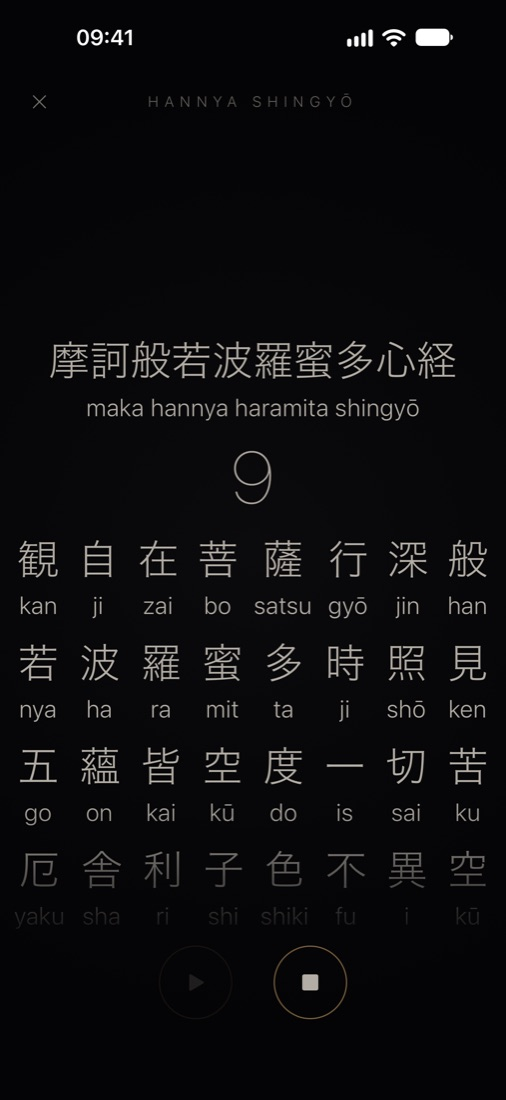
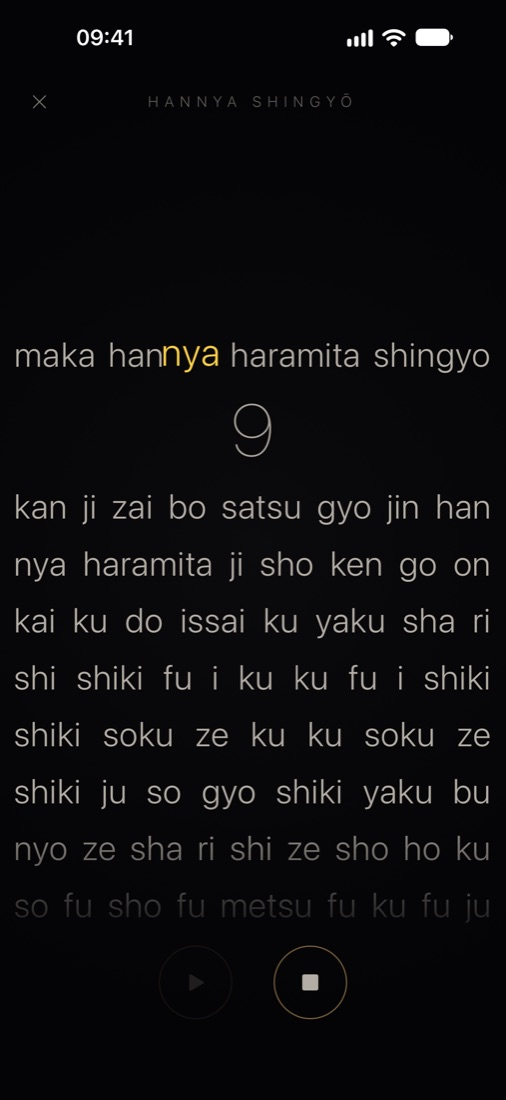
Mokugyo 1.1: romanised sutra, new screenshots, App Store link

Changed region(s): [[0.0296, 0.3091, 0.9783, 0.8345], [0.3557, 0.8036, 0.3854, 0.8345], [0.3261, 0.3709, 0.3557, 0.4018]]

diff --git a/mokugyo/index.html b/mokugyo/index.html
@@ -1,13 +1,15 @@
 <!doctype html><html lang=en-US><head><meta charset=utf-8><meta name=viewport content="width=device-width,initial-scale=1"><title>Mokugyo · Sergi Barroso</title><meta name=description content="Mokugyo is a meditation app for iPhone and Apple Watch: a timer for silent sitting, and the Heart Sutra chanted in time with a wooden fish."><meta name=author content="Sergi Barroso"><link rel=canonical href=https://sergibarroso.xyz/mokugyo/><meta property="og:title" content="Mokugyo · Sergi Barroso"><meta property="og:description" content="Mokugyo is a meditation app for iPhone and Apple Watch: a timer for silent sitting, and the Heart Sutra chanted in time with a wooden fish."><meta property="og:type" content="website"><meta property="og:url" content="https://sergibarroso.xyz/mokugyo/"><meta property="og:image" content="https://sergibarroso.xyz/mokugyo/icon.png"><meta name=color-scheme content="dark"><meta name=theme-color content="#071528"><link rel=icon type=image/png sizes=32x32 href=/favicon-32x32.png><link rel=icon type=image/png sizes=16x16 href=/favicon-16x16.png><link rel=apple-touch-icon href=/apple-touch-icon.png><link rel=stylesheet href=/css/site.min.a65817924cb3ef9ff227b98c6b7a270d3cf2d280851ff0138858dd5756aad7a1.css integrity="sha256-plgXkkyz75/yJ7mMa3onDTzy0oCFH/ATiFjdV1aq16E="></head><body data-accent=warm><canvas class=tiles aria-hidden=true></canvas><header class=site-header><nav aria-label=Main><a href=/>About</a>
-<a href=/projects/ aria-current=page>Projects</a></nav></header><main class=page><section class=project-hero><img class=project-icon src=/mokugyo/icon.png alt width=112 height=112><div><h1>Mokugyo</h1><p class=tagline>Zen timer & Heart Sutra chant for iPhone and Apple Watch</p><p class=status>Coming soon to the App Store.</p></div></section><div class=prose><p>Mokugyo is a meditation app rooted in Zen practice and open to any style. It has two
+<a href=/projects/ aria-current=page>Projects</a></nav></header><main class=page><section class=project-hero><img class=project-icon src=/mokugyo/icon.png alt width=112 height=112><div><h1>Mokugyo</h1><p class=tagline>Zen timer & Heart Sutra chant for iPhone and Apple Watch</p><a class=button href=https://apps.apple.com/app/id6820908666>Download on the App Store</a></div></section><div class=prose><p>Mokugyo is a meditation app rooted in Zen practice and open to any style. It has two
 parts: a timer for silent sitting, and the Heart Sutra, chanted in time with a <em>mokugyo</em> —
 the wooden fish that keeps the beat in Zen temples.</p><h2 id=sit-in-silence>Sit in silence</h2><p>Tap Begin and a singing bowl opens your sitting. A short countdown helps you settle, then
 your chosen time passes in silence: 5 to 60 minutes on iPhone, 5 to 45 on Apple Watch.
 When it ends, the bowl sounds again and rings out fully. The bowl was measured from a
 recording of a real singing bowl and is created as it sounds — there are no audio files.</p><h2 id=chant-the-heart-sutra>Chant the Heart Sutra</h2><p>Tap the heart to chant the Hannya Shingyō (般若心経), the Heart Sutra as chanted in
-Japanese Zen temples. Each character is shown in kanji with its reading beneath, and
-lights up in turn as it is chanted. A twelve-second countdown gives you time to sing the
-opening line, <em>maka hannya haramita shingyō</em>, as the temple bell sounds and fades; then
-the mokugyo strikes on every character, guiding your voice to the closing mantra. Choose
-the pace and the text size that suit you in Preferences.</p><h2 id=on-your-wrist-and-in-health>On your wrist, and in Health</h2><p>The Apple Watch app does both, and keeps going with your wrist down. With your
-permission, each sitting is saved to the Health app as Mindful Minutes.</p><h2 id=private-by-design>Private by design</h2><p>No accounts, no ads, no tracking. Nothing you do in Mokugyo leaves your device.</p></div><section class=section><h2 class=section-title>Screenshots</h2><div class=screenshots><figure class=phone><img src=/mokugyo/iphone-1-start.jpg alt="The start screen: a Begin button inside slow rings, set to ten minutes." loading=lazy></figure><figure class=phone><img src=/mokugyo/iphone-2-sutra-opening-line.jpg alt="The Heart Sutra counting down while its opening line is sung." loading=lazy></figure><figure class=phone><img src=/mokugyo/iphone-3-sutra-chanting.jpg alt="The Heart Sutra mid-chant, the current character lit in gold." loading=lazy></figure><figure class=phone><img src=/mokugyo/iphone-4-sitting.jpg alt="A sitting under way, with the time left and a thin progress ring." loading=lazy></figure><figure class=watch><img src=/mokugyo/watch-sutra-chanting.jpg alt="The Heart Sutra on Apple Watch, two rows at a time." loading=lazy></figure></div></section><section class=section><h2 class=section-title>More</h2><ul class=page-links><li><a href=/mokugyo/privacy.html>Mokugyo Privacy Policy</a></li><li><a href=/mokugyo/support.html>Mokugyo Support</a></li></ul></section></main><footer class=site-footer><span>© 2026 Sergi Barroso</span></footer><script src=/js/tiles.min.47a51d046621f431cd7507b52ce48270f5f08596bd3d137ca9efb2c301605e96.js integrity="sha256-R6UdBGYh9DHNdQe1LOSCcPXwhZa9PRN8qe+ywwFgXpY=" defer></script></body></html>
+Japanese temples. It is written in romanised Japanese, word by word as in a chant book,
+and each syllable lights up in turn as it is chanted, like karaoke. A twelve-second
+countdown lights the opening line, <em>maka hannya haramita shingyo</em>, for you to sing as the
+temple bell sounds and fades; then the mokugyo keeps the beat, timed from a real temple
+chant — quick syllables share one strike, the pace quickens gently as you go, and the
+closing <em>han nya shin gyo</em> is drawn out. Choose the pace and the text size that suit you
+in Preferences.</p><h2 id=on-your-wrist-and-in-health>On your wrist, and in Health</h2><p>The Apple Watch app does both, and keeps going with your wrist down. With your
+permission, each sitting is saved to the Health app as Mindful Minutes.</p><h2 id=private-by-design>Private by design</h2><p>No accounts, no ads, no tracking. Nothing you do in Mokugyo leaves your device.</p></div><section class=section><h2 class=section-title>Screenshots</h2><div class=screenshots><figure class=phone><img src=/mokugyo/iphone-1-start.jpg alt="The start screen: a Begin button inside slow rings, set to ten minutes." loading=lazy></figure><figure class=phone><img src=/mokugyo/iphone-2-sutra-opening-line.jpg alt="The Heart Sutra counting down, its opening line lit syllable by syllable as it is sung." loading=lazy></figure><figure class=phone><img src=/mokugyo/iphone-3-sutra-chanting.jpg alt="The Heart Sutra mid-chant, the syllable being chanted lit in gold." loading=lazy></figure><figure class=phone><img src=/mokugyo/iphone-4-sitting.jpg alt="A sitting under way, with the time left and a thin progress ring." loading=lazy></figure><figure class=watch><img src=/mokugyo/watch-sutra-chanting.jpg alt="The Heart Sutra on Apple Watch, a few rows at a time." loading=lazy></figure></div></section><section class=section><h2 class=section-title>More</h2><ul class=page-links><li><a href=/mokugyo/privacy.html>Mokugyo Privacy Policy</a></li><li><a href=/mokugyo/support.html>Mokugyo Support</a></li></ul></section></main><footer class=site-footer><span>© 2026 Sergi Barroso</span></footer><script src=/js/tiles.min.47a51d046621f431cd7507b52ce48270f5f08596bd3d137ca9efb2c301605e96.js integrity="sha256-R6UdBGYh9DHNdQe1LOSCcPXwhZa9PRN8qe+ywwFgXpY=" defer></script></body></html>

diff --git a/index.html b/index.html
@@ -1,4 +1,4 @@
-<!doctype html><html lang=en-US><head><meta name=generator content="Hugo 0.167.0"><meta charset=utf-8><meta name=viewport content="width=device-width,initial-scale=1"><title>Sergi Barroso</title><meta name=description content="Hi, I&rsquo;m Sergi Barroso, a computer engineer born in Barcelona during the &rsquo;80s.
+<!doctype html><html lang=en-US><head><meta charset=utf-8><meta name=viewport content="width=device-width,initial-scale=1"><title>Sergi Barroso</title><meta name=description content="Hi, I&rsquo;m Sergi Barroso, a computer engineer born in Barcelona during the &rsquo;80s.
 As a kid, I dreamt of becoming an architect, and I spent most of my childhood thinking and designing houses …"><meta name=author content="Sergi Barroso"><link rel=canonical href=https://sergibarroso.xyz/><meta property="og:title" content="Sergi Barroso"><meta property="og:description" content="Hi, I&rsquo;m Sergi Barroso, a computer engineer born in Barcelona during the &rsquo;80s.
-As a kid, I dreamt of becoming an architect, and I spent most of my childhood thinking and designing houses …"><meta property="og:type" content="website"><meta property="og:url" content="https://sergibarroso.xyz/"><meta property="og:image" content="https://sergibarroso.xyz/me.jpg"><meta name=color-scheme content="dark"><meta name=theme-color content="#071528"><link rel=icon type=image/png sizes=32x32 href=/favicon-32x32.png><link rel=icon type=image/png sizes=16x16 href=/favicon-16x16.png><link rel=apple-touch-icon href=/apple-touch-icon.png><link rel=stylesheet href=/css/site.min.a65817924cb3ef9ff227b98c6b7a270d3cf2d280851ff0138858dd5756aad7a1.css integrity="sha256-plgXkkyz75/yJ7mMa3onDTzy0oCFH/ATiFjdV1aq16E="></head><body><canvas class=tiles aria-hidden=true></canvas><header class=site-header><nav aria-label=Main><a href=/ aria-current=page>About</a>
+As a kid, I dreamt of becoming an architect, and I spent most of my childhood thinking and designing houses …"><meta property="og:type" content="website"><meta property="og:url" content="https://sergibarroso.xyz/"><meta property="og:image" content="https://sergibarroso.xyz/me.jpg"><meta name=color-scheme content="dark"><meta name=theme-color content="#071528"><link rel=icon type=image/png sizes=32x32 href=/favicon-32x32.png><link rel=icon type=image/png sizes=16x16 href=/favicon-16x16.png><link rel=apple-touch-icon href=/apple-touch-icon.png><link rel=stylesheet href=/css/site.min.a65817924cb3ef9ff227b98c6b7a270d3cf2d280851ff0138858dd5756aad7a1.css integrity="sha256-plgXkkyz75/yJ7mMa3onDTzy0oCFH/ATiFjdV1aq16E="><meta name=generator content="Hugo 0.168.0"></head><body><canvas class=tiles aria-hidden=true></canvas><header class=site-header><nav aria-label=Main><a href=/ aria-current=page>About</a>
 <a href=/projects/>Projects</a></nav></header><main class=page><section class=intro><img class=portrait src=/me.jpg alt="Sergi Barroso" width=168 height=168><div><h1>Sergi Barroso</h1><p class=tagline>DevOps and software engineer</p></div></section><div class=prose><p>Hi, I&rsquo;m Sergi Barroso, a computer engineer born in Barcelona during the &rsquo;80s.</p><p>As a kid, I dreamt of becoming an architect, and I spent most of my childhood thinking and designing houses using <a href=https://www.lego.com>Lego</a> until my dad introduced me to computers and the AMOs Basic.</p><p>I&rsquo;m passionate about computer systems, DevOps culture, programming languages (C, Go, Rust, and others but *Java), sports (mainly <a href=https://en.wikipedia.org/wiki/Calisthenics>calisthenics</a>, cycling and hiking), photography, drawing, board|card|video games, and 日本 (Japan).</p><p>I live in Munich and am a staff DevOps engineer at <a href=https://zalion.ai>Zalion</a>. I&rsquo;m always open to hearing about exciting projects to collaborate with, so please, drop me a message on any of the links below.</p><p>Thanks for reading.</p><p>&ndash; Sergi</p></div><ul class=links><li><a href=mailto:sergibarroso@gmail.com>Email</a></li><li><a href=https://www.linkedin.com/in/sergibarroso/ rel="me noopener" target=_blank>LinkedIn</a></li><li><a href=https://github.com/sergibarroso rel="me noopener" target=_blank>GitHub</a></li><li><a href=https://keys.openpgp.org/vks/v1/by-fingerprint/8B3798EFB5F520EFDA9537C2DED4819F660B2E35 rel="me noopener" target=_blank>OpenPGP key</a></li></ul></main><footer class=site-footer><span>© 2026 Sergi Barroso</span></footer><script src=/js/tiles.min.47a51d046621f431cd7507b52ce48270f5f08596bd3d137ca9efb2c301605e96.js integrity="sha256-R6UdBGYh9DHNdQe1LOSCcPXwhZa9PRN8qe+ywwFgXpY=" defer></script></body></html>

diff --git a/projects/index.html b/projects/index.html
@@ -1,4 +1,4 @@
 <!doctype html><html lang=en-US><head><meta charset=utf-8><meta name=viewport content="width=device-width,initial-scale=1"><title>Projects · Sergi Barroso</title><meta name=description content="Things Sergi Barroso has made."><meta name=author content="Sergi Barroso"><link rel=canonical href=https://sergibarroso.xyz/projects/><meta property="og:title" content="Projects · Sergi Barroso"><meta property="og:description" content="Things Sergi Barroso has made."><meta property="og:type" content="website"><meta property="og:url" content="https://sergibarroso.xyz/projects/"><meta property="og:image" content="https://sergibarroso.xyz/me.jpg"><meta name=color-scheme content="dark"><meta name=theme-color content="#071528"><link rel=icon type=image/png sizes=32x32 href=/favicon-32x32.png><link rel=icon type=image/png sizes=16x16 href=/favicon-16x16.png><link rel=apple-touch-icon href=/apple-touch-icon.png><link rel=stylesheet href=/css/site.min.a65817924cb3ef9ff227b98c6b7a270d3cf2d280851ff0138858dd5756aad7a1.css integrity="sha256-plgXkkyz75/yJ7mMa3onDTzy0oCFH/ATiFjdV1aq16E="></head><body><canvas class=tiles aria-hidden=true></canvas><header class=site-header><nav aria-label=Main><a href=/>About</a>
 <a href=/projects/ aria-current=page>Projects</a></nav></header><main class=page><h1 class=page-title>Projects</h1><div class=prose><p>Things I make in my own time, mostly small and quiet, built with care.</p></div><ul class=cards><li><a class=card href=/mokugyo/><img class=card-icon src=/mokugyo/icon.png alt width=64 height=64>
 <span class=card-text><span class=card-title>Mokugyo</span>
-<span class=card-summary>A meditation timer with a singing bowl, and the Heart Sutra lit character by character to the beat of a wooden fish.</span></span></a></li></ul></main><footer class=site-footer><span>© 2026 Sergi Barroso</span></footer><script src=/js/tiles.min.47a51d046621f431cd7507b52ce48270f5f08596bd3d137ca9efb2c301605e96.js integrity="sha256-R6UdBGYh9DHNdQe1LOSCcPXwhZa9PRN8qe+ywwFgXpY=" defer></script></body></html>
+<span class=card-summary>A meditation timer with a singing bowl, and the Heart Sutra lit syllable by syllable to the beat of a wooden fish.</span></span></a></li></ul></main><footer class=site-footer><span>© 2026 Sergi Barroso</span></footer><script src=/js/tiles.min.47a51d046621f431cd7507b52ce48270f5f08596bd3d137ca9efb2c301605e96.js integrity="sha256-R6UdBGYh9DHNdQe1LOSCcPXwhZa9PRN8qe+ywwFgXpY=" defer></script></body></html>

diff --git a/mokugyo/support.html b/mokugyo/support.html
@@ -6,6 +6,6 @@ off. In Mokugyo, <strong>Preferences</strong> (the gear) shows whether Health is
 an alarm, or leaving the app ends the session. On Apple Watch, lowering your wrist does
 not end it.</p><h3 id=can-mokugyo-silence-notifications-while-i-sit>Can Mokugyo silence notifications while I sit?</h3><p>Apps can&rsquo;t turn on Do Not Disturb by themselves, but the Shortcuts app can do it for you.
 In Shortcuts, add an automation: <strong>Automation → App → Mokugyo → Is Opened → Set Focus</strong>.</p><h3 id=why-is-the-longest-sitting-on-apple-watch-45-minutes>Why is the longest sitting on Apple Watch 45 minutes?</h3><p>watchOS keeps a meditation app running for at most an hour, and a sitting&rsquo;s countdown and
-closing bell need room inside it. On iPhone, sittings go up to 60 minutes.</p><h3 id=can-i-change-how-fast-the-sutra-goes-or-how-large-it-is>Can I change how fast the sutra goes, or how large it is?</h3><p>Yes. In <strong>Preferences</strong>, choose a pace from 100 to 140 characters a minute and a text size
-of Small, Medium, or Large. On Apple Watch, Large shows one row at a time.</p><h2 id=privacy>Privacy</h2><p>Mokugyo collects nothing and never connects to the internet. See the
+closing bell need room inside it. On iPhone, sittings go up to 60 minutes.</p><h3 id=can-i-change-how-fast-the-sutra-goes-or-how-large-it-is>Can I change how fast the sutra goes, or how large it is?</h3><p>Yes. In <strong>Preferences</strong>, choose a pace from 100 to 140 beats a minute and a text size of
+Small, Medium, or Large. On Apple Watch, Large shows fewer rows at a time.</p><h2 id=privacy>Privacy</h2><p>Mokugyo collects nothing and never connects to the internet. See the
 <a href=/mokugyo/privacy.html>privacy policy</a>.</p></div></article></main><footer class=site-footer><span>© 2026 Sergi Barroso</span></footer><script src=/js/tiles.min.47a51d046621f431cd7507b52ce48270f5f08596bd3d137ca9efb2c301605e96.js integrity="sha256-R6UdBGYh9DHNdQe1LOSCcPXwhZa9PRN8qe+ywwFgXpY=" defer></script></body></html>
